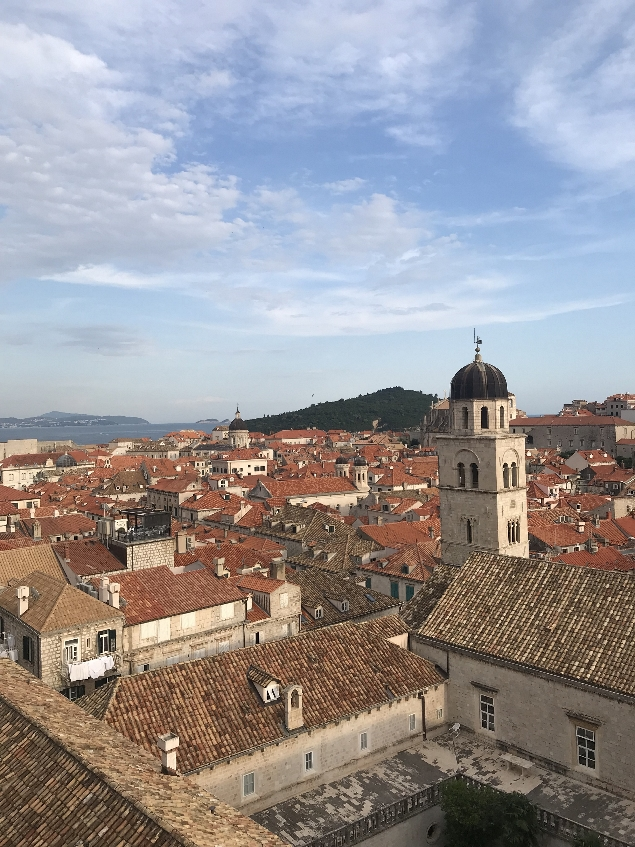
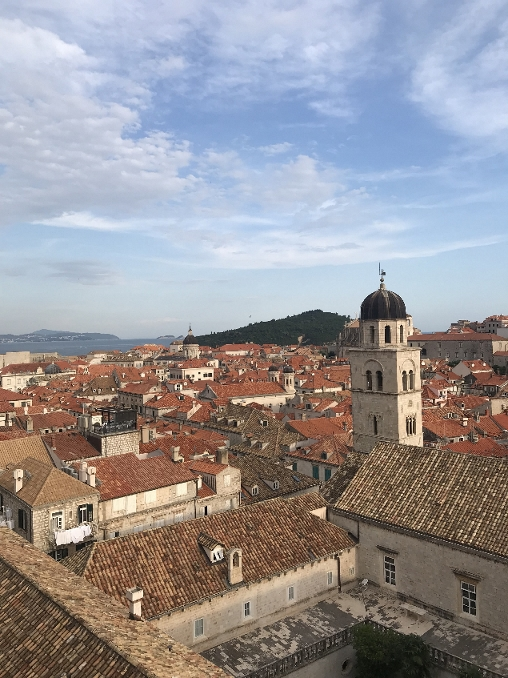
JPG

diff --git a/articles/2018/05/24-Dubrovnik.html b/articles/2018/05/24-Dubrovnik.html
@@ -73,18 +73,18 @@
     <h3><b>Dubrovnik</b></h3>
       <p><i>24 / 05 / 2018</i></p>
       <p>This is a city which I've been wanting to visit for a while. Initially, my boyfriend and I were going to travel around Croatia in 2017. Then we were invited for a wedding this year and decided to delay our plans and come back in 2018. With the wedding held in Hvar, we decided to island hop in the days leading up to the wedding. This included two days in Dubrovnik and 24hrs on Mljet Island (which I will write about in a separate post).</p>
-        <img src="../../../../images/croatia/IMG_2621.jpg"/>
+        <img src="../../../images/croatia/IMG_2621.JPG"/>
       <p>Evening walk around the wall. I'd recommend going at 6pm, the temperatures are comfortable and the wall less crowded.</p>
-        <img src="../../../../images/croatia/IMG_2670.jpg"/>
-        <img src="../../../../images/croatia/IMG_2709.jpg"/>
-        <img src="../../../../images/croatia/IMG_2715.jpg"/>
+        <img src="../../../images/croatia/IMG_2670.JPG"/>
+        <img src="../../../images/croatia/IMG_2709.JPG"/>
+        <img src="../../../images/croatia/IMG_2715.JPG"/>
       <p>What a city! I have finally seen the city wall and red roof tiles and can say that, yes, they are as beautiful as in the pictures. It's even more special with sun warming your back and the cooling ocean breeze. After walking almost the entirety of the wall, we stopped at the top bar with an ocean view. My boyfriend had a cooling beer and I a refreshing juice mixed from seven different types of fruits - it was divine.</p>
         <img>
       <p>The Old Town is only a small place and you quickly get a sense of your surroundings. It's so charming and medieval-looking, unlike any other city I've been to, except from perhaps Tallinn, but still, completely different. The restaurants dished up the most incredible seafood, including an octopus salad I'm still dreaming of.</p>
-        <img src="../../../../images/croatia/IMG_2733.jpg"/>
-        <img src="../../../../images/croatia/IMG_2735.jpg"/>
+        <img src="../../../images/croatia/IMG_2733.JPG"/>
+        <img src="../../../images/croatia/IMG_2735.JPG"/>
       <p>We visited late May, a month which I'd recommend going. It wasn't as touristy as it gets later in the summer, and the temeperatures were comfortable although a little hot for me, but I've grown up with Arctic coldness. A taxi driver told me that temperatures can reach 40C in July and August.</p>
-      <img src="../../../../images/croatia/IMG_2767.jpg"/>
+      <img src="../../../images/croatia/IMG_2767.JPG"/>
       <p><i>Ingrid x</i></p>
     </div>
 

diff --git a/index.html b/index.html
@@ -77,7 +77,7 @@
 
     <div class="col-sm-4"> <!-- Column content goes here-->
       <div class="row">
-        <a href="articles/2018/05/24-Dubrovnik.html"> <img src="images/dubrovnik.jpg" img class="images"/>
+        <a href="articles/2018/05/24-Dubrovnik.html"> <img src="images/dubrovnik_rooftops.JPG" img class="images"/>
           <div class="overlay">
             <div class="text">Dubrovnik
               <div class="paragraph"><p>This is a city I've been wanting to visit for a while ...</p>
